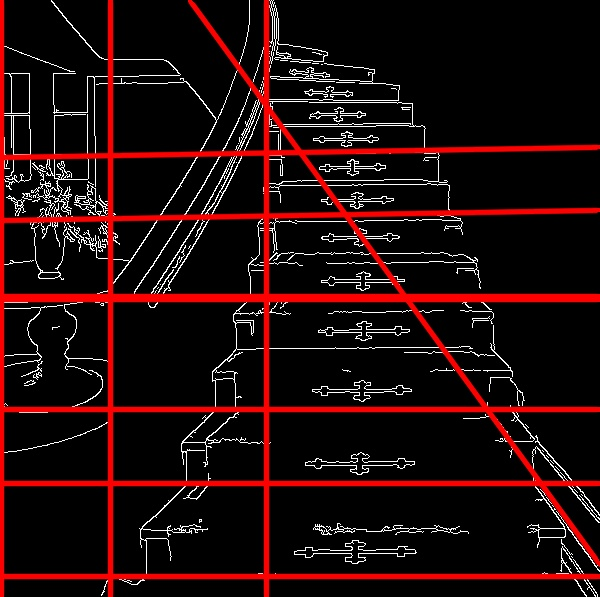
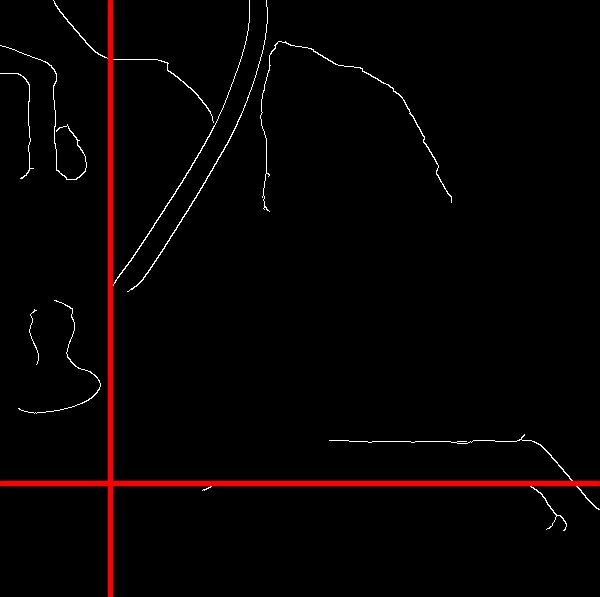
Median blur

diff --git a/src/HoughAlgorithme.cpp b/src/HoughAlgorithme.cpp
@@ -14,10 +14,11 @@ using namespace std;
 int main(int argc, char** argv)
 {
     /** Declare the output variables **/
-    Mat dst, cdst, cdstP;
+    Mat dst, cdst, cdstP, cdstSmooth;
+    int MAX_KERNEL_LENGTH = 27;
 
     /** Load Data base images **/
-    Mat src = imread( "/home/lbenboudiaf/Bureau/ProjetImagerie/bdd/bddProf/esc7.jpg", IMREAD_GRAYSCALE );
+    Mat src = imread( "/home/lbenboudiaf/Bureau/ProjetImagerie/bdd/bddProf/esc5.jpg", IMREAD_GRAYSCALE );
 
     /** Check if image is loaded fine **/
     if(src.empty()){
@@ -25,10 +26,16 @@ int main(int argc, char** argv)
         return -1;
     }
 
-    /**Edge detection by using a Canny detector **/
-    Canny(src, dst, 50, 200, 3);
+    /** Apply medain filter **/
+    cdstSmooth = src.clone();
+    for (int i = 1; i < MAX_KERNEL_LENGTH; i = i + 2 ){
+      medianBlur ( src, cdstSmooth, i );
+    }
 
-    /** Copy edges to the images that will display the results in BGR **/
+    /**Edge detection by using a Canny detector **/
+    Canny(cdstSmooth, dst, 50, 200, 3);
+
+    /** Copy edges to the images that will display the results in Gray **/
     cvtColor(dst, cdst, COLOR_GRAY2BGR);
     cdstP = cdst.clone();
 
@@ -80,12 +87,13 @@ int main(int argc, char** argv)
 
     /** Display Original Image , Standard and Probabilistic Hough Transform **/
     imshow("Original image ", src);
+    imshow("Smooth image ", cdstSmooth);
     imshow("Standard Hough Line Transform", cdst);
     imshow("Probabilistic Line Transform", cdstP);
 
     /** Save results sample **/
-    imwrite("../bdd/bddProf/HoughResults/esc6-Standard.jpg",cdstP);
-    imwrite("../bdd/bddProf/HoughResults/esc6-Prob.jpg",cdstP);
+    imwrite("../bdd/bddProf/HoughResults/esc5-Standard.jpg",cdst);
+    imwrite("../bdd/bddProf/HoughResults/esc5-Prob.jpg",cdstP);
 
     // Wait and Exit
     waitKey();
